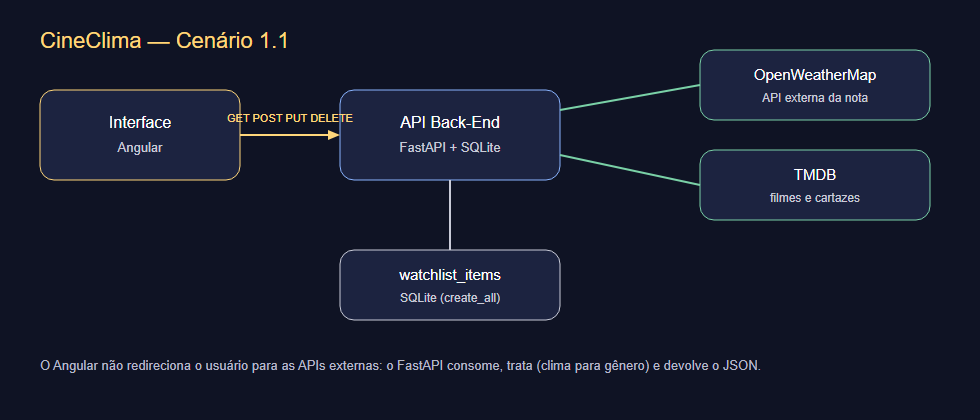
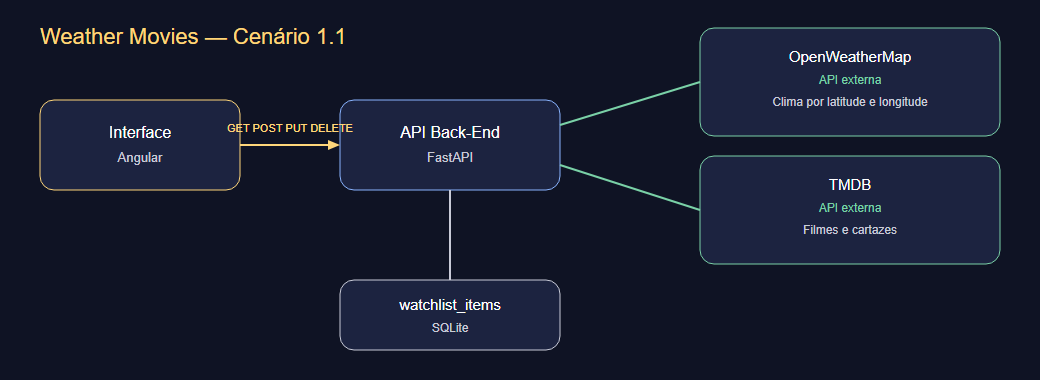
Descreve as APIs externas no diagrama, deixa o SQLite só no banco e renomeia a interface para Weather Movies.

diff --git a/src/app/app.component.spec.ts b/src/app/app.component.spec.ts
@@ -20,6 +20,6 @@ describe('AppComponent', () => {
     const fixture = TestBed.createComponent(AppComponent);
     fixture.detectChanges();
     const compiled = fixture.nativeElement as HTMLElement;
-    expect(compiled.querySelector('.brand-text')?.textContent).toContain('CineClima');
+    expect(compiled.querySelector('.brand-text')?.textContent).toContain('Weather Movies');
   });
 });

diff --git a/src/index.html b/src/index.html
@@ -2,7 +2,7 @@
 <html lang="pt-BR">
 <head>
   <meta charset="utf-8">
-  <title>CineClima — filme pelo clima</title>
+  <title>Weather Movies — filme pelo clima</title>
   <base href="/">
   <meta name="viewport" content="width=device-width, initial-scale=1">
   <link rel="icon" type="image/x-icon" href="favicon.ico">

diff --git a/src/app/app.component.html b/src/app/app.component.html
@@ -3,7 +3,7 @@
     <a class="brand" routerLink="/">
       <span class="brand-mark">▶</span>
       <span class="brand-text">
-        CineClima
+        Weather Movies
         <small>filme certo para o tempo de hoje</small>
       </span>
     </a>

diff --git a/README.md b/README.md
@@ -1,4 +1,4 @@
-# Weather Movies — Interface (CineClima)
+# Weather Movies — Interface
 
 Front-end **Angular 19** + Angular Material. Recomenda filmes com base no clima e gerencia a watchlist falando **somente** com a API própria (`weather-movies-api`). Não há redirect para OpenWeather ou TMDB.
 
@@ -11,12 +11,12 @@ Se a API estiver offline, as telas abrem em **modo demonstração** com dados de
 
 ## Arquitetura
 
-![Arquitetura CineClima](public/architecture.png)
+![Arquitetura Weather Movies](public/architecture.png)
 
 ```
 Interface (Angular) --REST GET/POST/PUT/DELETE--> API FastAPI
-API FastAPI --HTTP--> OpenWeatherMap (API externa da nota)
-API FastAPI --HTTP--> TMDB (cartazes)
+API FastAPI --HTTP--> OpenWeatherMap (API externa: clima por latitude e longitude)
+API FastAPI --HTTP--> TMDB (API externa: filmes e cartazes)
 API FastAPI --> SQLite (watchlist_items)
 ```
 
